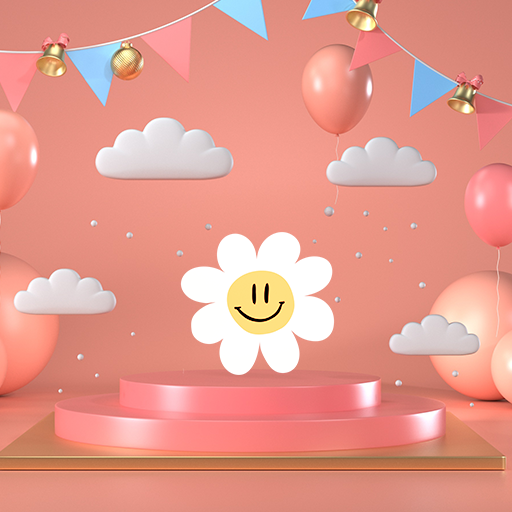
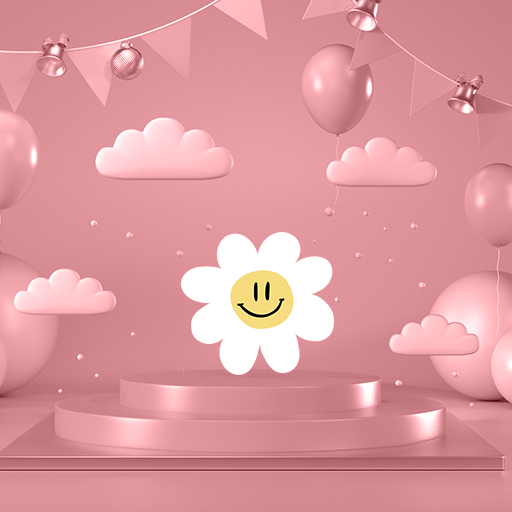
added styling to cards, buttons and background

diff --git a/index.html b/index.html
@@ -56,7 +56,7 @@
 
             <h5 class="card-title">I want to feel Happy </h5>
             <p class="card-text">Please click below for a recommended playlist.</p>
-            <a href="#" class="btn btn-primary">Start Playlist</a>
+            <button class="noselect"><span>Play</span></button>
 
           </div>
         </div>
@@ -69,7 +69,7 @@
 
             <h5 class="card-title">I want to feel less Stress</h5>
             <p class="card-text">Please click below for a recommended playlist.</p>
-            <a href="#" class="btn btn-primary">Start Playlist</a>
+            <button class="noselect"><span>Play</span></button>
 
           </div>
         </div>
@@ -82,7 +82,7 @@
 
             <h5 class="card-title">I want to feel less Anxious</h5>
             <p class="card-text">Please click below for a recommended playlist.</p>
-            <a href="#" class="btn btn-primary">Start Playlist</a>
+            <button class="noselect"><span>Play</span></button>
 
           </div>
         </div>
@@ -95,7 +95,7 @@
 
             <h5 class="card-title">I want to feel Calm</h5>
             <p class="card-text">Please click below for a recommended playlist.</p>
-            <a href="#" class="btn btn-primary">Start Playlist</a>
+            <button class="noselect"><span>Play</span></button>
 
           </div>
         </div>
@@ -103,12 +103,12 @@
       <div class="cardContainer col-lg-3 col-md-3 col-sm-12">
         <a href="#" class="card-link"></a>
         <div class="card">
-          <img src="./assets/images/Parkinsons.png" class="card-img-top" alt="water and surfing image">
+          <img src="./assets/images/Energetic.png" class="card-img-top" alt="water and surfing image">
           <div class="card-body">
 
             <h5 class="card-title">I want to feel Energetic</h5>
             <p class="card-text">Please click below for a recommended playlist.</p>
-            <a href="#" class="btn btn-primary">Start Playlist</a>
+            <button class="noselect"><span>Play</span></button>
 
           </div>
         </div>
@@ -121,7 +121,7 @@
 
             <h5 class="card-title">I want to feel Sleepy</h5>
             <p class="card-text">Please click below for a recommended playlist.</p>
-            <a href="#" class="btn btn-primary">Start Playlist</a>
+            <button class="noselect"><span>Play</span></button>
 
           </div>
         </div>
@@ -129,12 +129,12 @@
       <div class="cardContainer col-lg-3 col-md-3 col-sm-12">
         <a href="#" class="card-link"></a>
         <div class="card">
-          <img src="./assets/images/ADHD.png" class="card-img-top" alt="water and surfing image">
+          <img src="./assets/images/Focus.png" class="card-img-top" alt="water and surfing image">
           <div class="card-body">
 
             <h5 class="card-title">I want to Focus</h5>
             <p class="card-text">Please click below for a recommended playlist.</p>
-            <a href="#" class="btn btn-primary">Start Playlist</a>
+            <button class="noselect"><span>Play</span></button>
 
           </div>
         </div>
@@ -142,12 +142,12 @@
       <div class="cardContainer col-lg-3 col-md-3 col-sm-12">
         <a href="#" class="card-link"></a>
         <div class="card">
-          <img src="./assets/images/OCD.png" class="card-img-top" alt="water and surfing image">
+          <img src="./assets/images/Love.png" class="card-img-top" alt="water and surfing image">
           <div class="card-body">
 
             <h5 class="card-title">I want to feel Heroic</h5>
             <p class="card-text">Please click below for a recommended playlist.</p>
-            <a href="#" class="btn btn-primary">Start Playlist</a>
+            <button class="noselect"><span>Play</span></button>
 
           </div>
         </div>
@@ -159,33 +159,34 @@
 <!-- Footer Nav Start -->
 
       <footer class="footer">
+       
         <div class="footer-columns">
             <!-- Column 1 -->
             <div class="footer-column">
                 <h4>Company</h4>
-                <div class="footer-row">About</div>
+                <!-- <div class="footer-row">About</div>
                 <div class="footer-row">Careers</div>
                 <div class="footer-row">Press</div>
-                <div class="footer-row">Blog</div>
+                <div class="footer-row">Blog</div> -->
             </div>
 
             <!-- Column 2 -->
-            <div class="footer-column">
+            <!-- <div class="footer-column">
                 <h4>Further Help</h4>
                 <div class="footer-row">Harmony Heal Pro</div>
                 <div class="footer-row">Harmony Heal Business</div>
                 <div class="footer-row">Harmony Heal For Kids</div>
                 <div class="footer-row">Harmony Heal For Charities</div>
-            </div>
+            </div> -->
 
-            <!-- Column 3 -->
+            <!-- Column 3
             <div class="footer-column">
                 <h4>Boring Bits</h4>
                 <div class="footer-row">FAQs</div>
                 <div class="footer-row">Privacy Policy</div>
                 <div class="footer-row">Terms & Conditions</div>
                 <div class="footer-row">Cookies</div>
-            </div>
+            </div> -->
         </div>
     </footer>
 

diff --git a/assets/css/style.css b/assets/css/style.css
@@ -9,9 +9,11 @@
 
 :root {
   --main-bg-color: #FFEF9F;
-  --main-card-color: #808df6;
+  --main-card-color: #fff3f5;
   --main-text-color: #2E2E3A;
   --main-nav-color: #90F1EF;
+  --surface-color: #fff;
+  --curve: 40;
 }
 
 @font-face {
@@ -31,10 +33,76 @@ body {
   background-color: var(--main-bg-color);
   color: var(--main-text-color);
   font-family: "catcheye-webfont";
+  background-image: url(../images/Clouds-Above.png)
 }
 
 .navbar {
-  background-color: var(--main-nav-color) !important;
+  background-color: ;
+}
+
+button {
+	width: 120px;
+	height: 30px;
+	cursor: pointer;
+	border: 0px solid #5b3f69;
+	background: #34283b;
+	transition: 200ms;
+}
+
+button span {
+	position: absolute;
+	transform: translateX(-50%) translateY(-50%);
+	font-family: 'Berkshire Swash', cursive;
+	font-size: 20px;
+	color: #f0ecfc;
+	transition: 500ms;
+}
+
+button::before, button::after {
+	content: '';
+	position: absolute;
+	margin-left: -75px;
+	margin-top: -25px;
+	width: 140px;
+	height: 40px;
+	z-index: -1;
+}
+
+button::before {
+	border: 3px solid #7e5791;
+	transition: 200ms;
+}
+
+button::after {
+	border: 3px solid #b37ccf;
+	transition: 500ms;
+}
+
+button:hover {
+	border: 3px solid #5b3f69;
+}
+
+button:hover span {
+	letter-spacing: 4px;
+	font-size: 20px;
+}
+
+button:hover::before {
+	width: 150px;
+	height: 50px;
+	margin-left: -80px;
+	margin-top: -30px;
+}
+
+button:hover::after {
+	width: 160px;
+	height: 60px;
+	margin-left: -85px;
+	margin-top: -35px;
+}
+
+button:focus {
+	outline: none;
 }
 
 #portfolioCards h2 {
@@ -50,6 +118,7 @@ body {
   flex-direction: column;
   align-items: center;
   text-align: center;
+ 
 }
 
 .container-fluid {
@@ -64,7 +133,10 @@ body {
 
 #portfolioCards .card {
   background-color: var(--main-card-color);
+  border-radius: calc(var(--curve) * 2.9px);
 }
+
+
 /* Portfolio cards End */
 
 /* Footer Styles */
